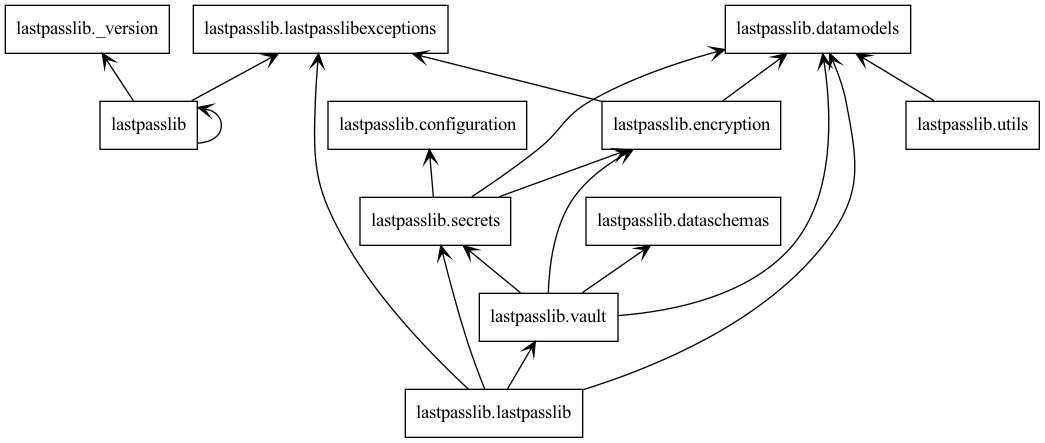
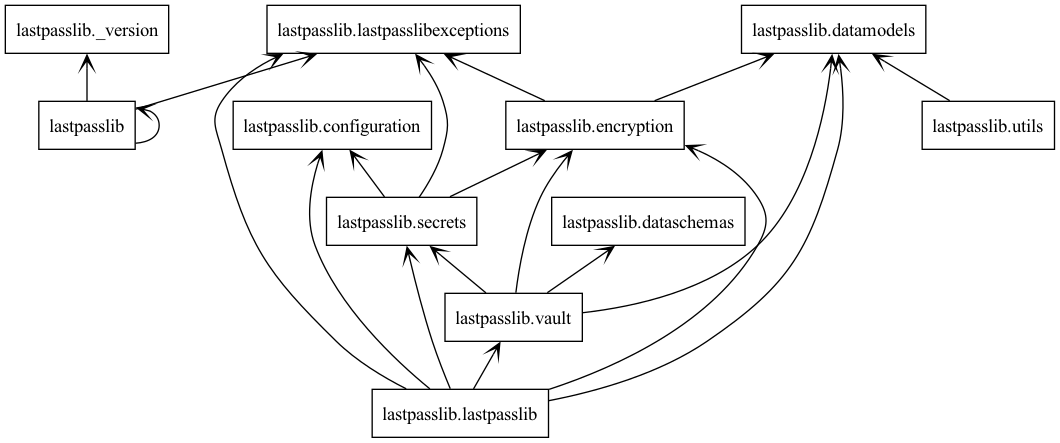
Refresh generated artifacts and tox command.
- tox.ini: invoke nosetests directly instead of through ./setup.py.
- dev-requirements.txt: regenerated from Pipfile.lock.
- graphs/*.png: regenerated class/package graphs.
- docs/*.rst: regenerated Sphinx module pages.

diff --git a/docs/lastpasslib.rst b/docs/lastpasslib.rst
@@ -1,0 +1,85 @@
+lastpasslib package
+===================
+
+Submodules
+----------
+
+lastpasslib.configuration module
+--------------------------------
+
+.. automodule:: lastpasslib.configuration
+   :members:
+   :undoc-members:
+   :show-inheritance:
+
+lastpasslib.datamodels module
+-----------------------------
+
+.. automodule:: lastpasslib.datamodels
+   :members:
+   :undoc-members:
+   :show-inheritance:
+
+lastpasslib.dataschemas module
+------------------------------
+
+.. automodule:: lastpasslib.dataschemas
+   :members:
+   :undoc-members:
+   :show-inheritance:
+
+lastpasslib.encryption module
+-----------------------------
+
+.. automodule:: lastpasslib.encryption
+   :members:
+   :undoc-members:
+   :show-inheritance:
+
+lastpasslib.lastpasslib module
+------------------------------
+
+.. automodule:: lastpasslib.lastpasslib
+   :members:
+   :undoc-members:
+   :show-inheritance:
+
+lastpasslib.lastpasslibexceptions module
+----------------------------------------
+
+.. automodule:: lastpasslib.lastpasslibexceptions
+   :members:
+   :undoc-members:
+   :show-inheritance:
+
+lastpasslib.secrets module
+--------------------------
+
+.. automodule:: lastpasslib.secrets
+   :members:
+   :undoc-members:
+   :show-inheritance:
+
+lastpasslib.utils module
+------------------------
+
+.. automodule:: lastpasslib.utils
+   :members:
+   :undoc-members:
+   :show-inheritance:
+
+lastpasslib.vault module
+------------------------
+
+.. automodule:: lastpasslib.vault
+   :members:
+   :undoc-members:
+   :show-inheritance:
+
+Module contents
+---------------
+
+.. automodule:: lastpasslib
+   :members:
+   :undoc-members:
+   :show-inheritance:

diff --git a/docs/modules.rst b/docs/modules.rst
@@ -1,0 +1,7 @@
+lastpasslib
+===========
+
+.. toctree::
+   :maxdepth: 4
+
+   lastpasslib
